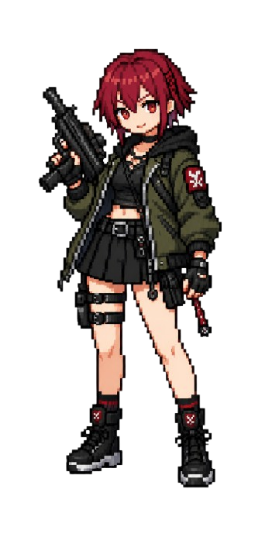
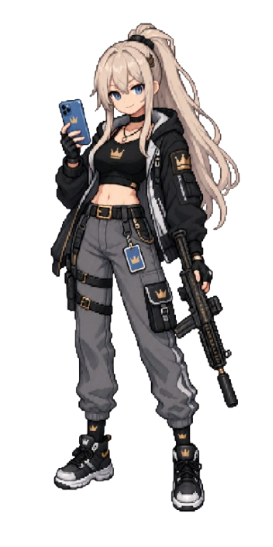
feat: звуки смерти монстров

diff --git a/game/entities/monster.py b/game/entities/monster.py
@@ -1,5 +1,7 @@
 import random
 from datetime import datetime, UTC, timedelta
+
+import pygame
 from pygame import Surface, Rect, transform, image
 from pygame.math import Vector2
 
@@ -8,14 +10,15 @@ from game.entities.base import BaseEntity
 
 class Monster(BaseEntity):
     def __init__(self, position: list[int]) -> None:
+        self.index = random.randint(1, 5)
         self.position = position
         self.width = 96
         self.height = 192
         self.hitbox = Rect(*self.position, self.width, self.height)
-        image_name = self._get_image()
-        self.image = transform.scale(image.load(image_name).convert_alpha(), (96, 192))
-        self.speed_coef = 2
+        self.image = transform.scale(image.load(f"assets/monster_{self.index}.png").convert_alpha(), (96, 192))
+        self.sound = pygame.mixer.Sound(f"assets/sounds/death_sound_{self.index}.wav")
 
+        self.speed_coef = 2
         self.damage = 10
         self.last_damage_at: datetime | None = None
 
@@ -44,6 +47,6 @@ class Monster(BaseEntity):
     def render(self, screen: Surface):
         screen.blit(self.image, self.hitbox)
 
-    def _get_image(self):
-        number = random.randint(1, 5)
-        return f"assets/monster_{number}.png"
+    def on_death(self, game_state):
+        self.sound.play()
+        game_state.monsters.remove(self)

diff --git a/game/main.py b/game/main.py
@@ -37,11 +37,15 @@ def show_splash_screen(screen):
         pygame.display.flip()
         Clock().tick(clip.fps)
 
+def load_music():
+    pygame.mixer.music.load("assets/sounds/main_part_song.mp3")
+    pygame.mixer.music.set_volume(0.5)
+
 
 def run_game():
     screen = init_pygame()
-    pygame.mixer.music.load("assets/sounds/main_part_song.mp3")
     show_splash_screen(screen)
+    load_music()
 
     pygame.mixer.music.play(-1)
 

diff --git a/game/entities/bullet.py b/game/entities/bullet.py
@@ -50,4 +50,4 @@ class Bullet(BaseEntity):
         for monster in game_state.monsters:
             if monster.hitbox.colliderect(self.hitbox):
                 self.should_be_deleted = True
-                game_state.monsters.remove(monster)
+                monster.on_death(game_state)